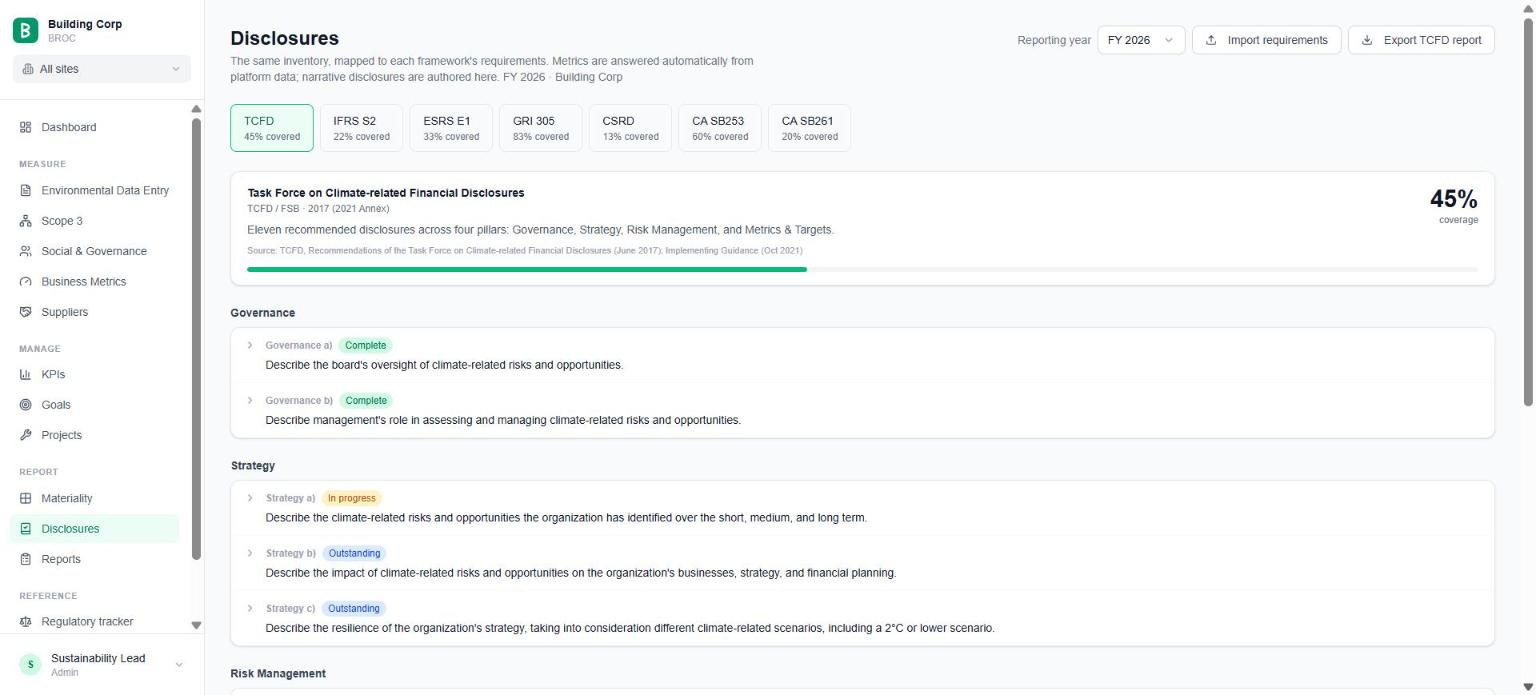
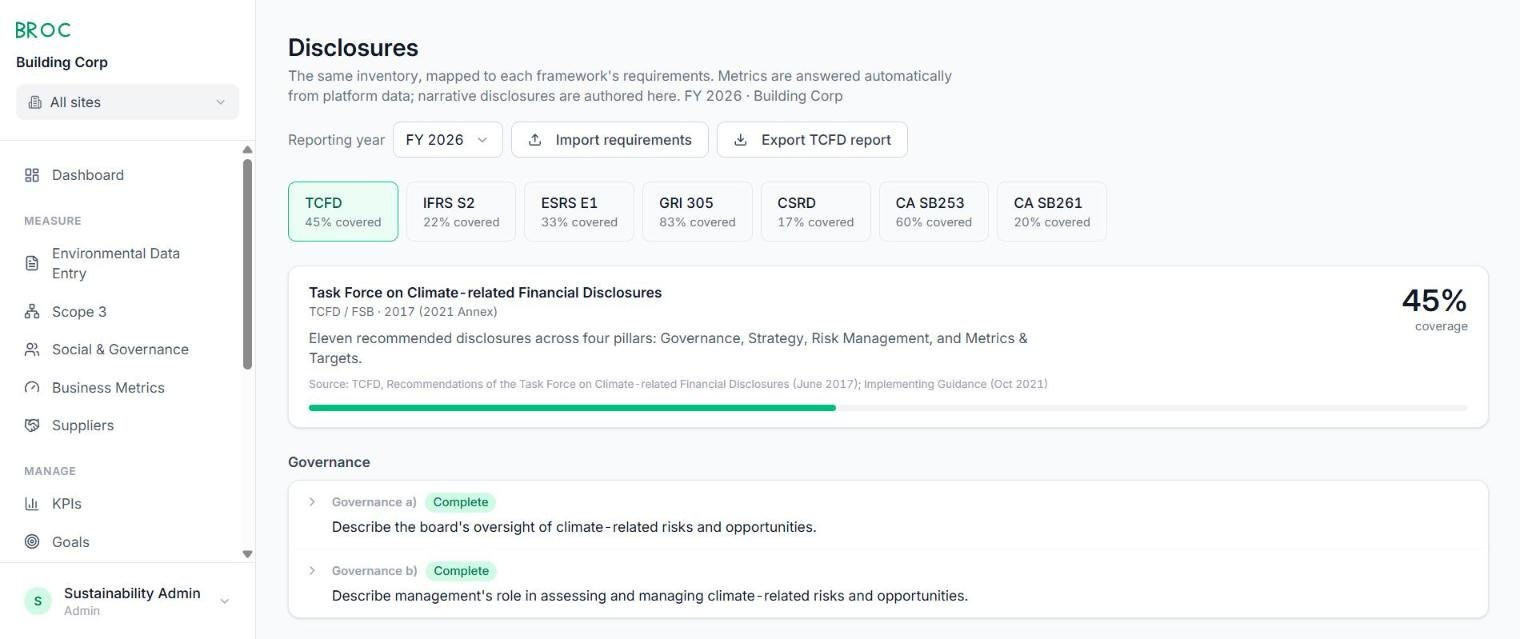
Fresh screenshots in the new font and wordmark, on the README and the site
Retaken from the live app: dashboard (now with the regulatory deadlines
panel), environmental data entry, disclosures and goals. The landing page
uses the same images without the sidebar, and its dashboard callouts are
renumbered to match.

Claude-Session: https://claude.ai/code/session_014vEppJLwr8EdHBYrNwHfrB

diff --git a/website/index.html b/website/index.html
@@ -260,13 +260,15 @@ footer .spacer { flex: 1; }
 
     <div class="plate">
       <figure class="frame" style="margin:0">
-        <img src="img/dashboard.jpg" width="1315" height="640" alt="The BROC dashboard: Scope 1 and 2 total, Scope 1, Scope 2 location- and market-based, Scope 3, water, waste and goal progress">
-        <span class="pin" style="left:24%; top:17.5%" aria-hidden="true">1</span>
-        <span class="pin" style="left:67%; top:29.5%" aria-hidden="true">2</span>
-        <span class="pin" style="left:94%; top:17.5%" aria-hidden="true">3</span>
+        <img src="img/dashboard.jpg" width="1264" height="639" alt="The BROC dashboard: upcoming regulatory deadlines, then Scope 1 and 2 total, Scope 1 by source category, Scope 2 location- and market-based, and Scope 3">
+        <span class="pin" style="left:85%; top:21.4%" aria-hidden="true">1</span>
+        <span class="pin" style="left:23.1%; top:47.9%" aria-hidden="true">2</span>
+        <span class="pin" style="left:63.6%; top:62.9%" aria-hidden="true">3</span>
+        <span class="pin" style="left:95.3%; top:47.9%" aria-hidden="true">4</span>
       </figure>
       <div>
         <ol class="notes">
+          <li><div><strong>Deadlines ahead</strong>From a regulatory tracker where every date carries a cited source.</div></li>
           <li><div><strong>Scope 1 + 2 total</strong>Year-over-year, across every site in your consolidation boundary.</div></li>
           <li><div><strong>Scope 2, both ways</strong>Location- and market-based on every entry: contract, then residual mix, then grid average.</div></li>
           <li><div><strong>Scope 3, kept separate</strong>Never folded into the Scope 1 + 2 total, with category coverage and share of primary data shown.</div></li>
@@ -325,7 +327,7 @@ footer .spacer { flex: 1; }
         <h3>Every figure carries its evidence</h3>
         <p>Activity data is entered once and calculated on the server with a cited factor. Attach the invoice or meter reading that backs it, and anyone can follow a number back to its source.</p>
       </div>
-      <div class="shot"><img src="img/data-entry.jpg" width="1315" height="560" loading="lazy" alt="Environmental data entry: emissions by date, site and scope, with quantity, CO2e and a supporting-document control on each row"></div>
+      <div class="shot"><img src="img/data-entry.jpg" width="1264" height="639" loading="lazy" alt="Environmental data entry: emissions by date, site and scope, with quantity, CO2e and a supporting-document control on each row"></div>
     </div>
 
     <div class="feature">
@@ -333,7 +335,7 @@ footer .spacer { flex: 1; }
         <h3>One inventory, every framework</h3>
         <p>TCFD, IFRS S2, ESRS, GRI and the California climate laws read from the same data. Metrics answer themselves, narrative is written once, and a CSRD report asks only for the topics your double materiality assessment found material.</p>
       </div>
-      <div class="shot"><img src="img/disclosures.jpg" width="1315" height="695" loading="lazy" alt="Disclosures: framework tabs with coverage, and the status of each requirement"></div>
+      <div class="shot"><img src="img/disclosures.jpg" width="1264" height="639" loading="lazy" alt="Disclosures: framework tabs with coverage, and the status of each requirement"></div>
     </div>
 
     <div class="feature">
@@ -341,7 +343,7 @@ footer .spacer { flex: 1; }
         <h3>Targets measured against the projects that will hit them</h3>
         <p>Set absolute, intensity or SBTi 1.5 °C goals, then see how much of the required reduction is already achieved and how much your project pipeline covers.</p>
       </div>
-      <div class="shot"><img src="img/goals.jpg" width="1315" height="455" loading="lazy" alt="Goals: current emissions, pipeline reduction, and each target's path showing achieved versus pipeline"></div>
+      <div class="shot"><img src="img/goals.jpg" width="1264" height="585" loading="lazy" alt="Goals: current emissions, pipeline reduction, and each target's path showing achieved versus pipeline"></div>
     </div>
 
     <div class="feature narrow">

diff --git a/README.md b/README.md
@@ -7,7 +7,7 @@ so the budget goes to reduction projects, not platform subscriptions.
 Free and open source (Apache-2.0). No licence fee, no per-seat pricing, no
 vendor holding your data.
 
-![The BROC dashboard: Scope 1, 2 and 3 totals, water, waste and goal progress](docs/screenshots/dashboard.jpg)
+![The BROC dashboard: upcoming regulatory deadlines, then Scope 1 + 2, Scope 1 by source category, Scope 2 location- and market-based, and Scope 3](docs/screenshots/dashboard.jpg)
 
 ## Who it's for
 
